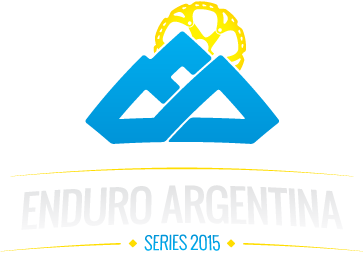
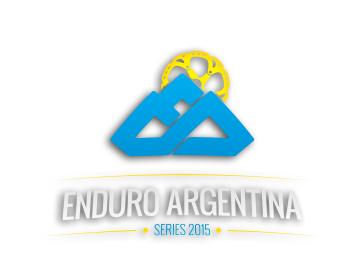
fixes enduro brand

Changed region(s): [[0.0, 0.0, 1.0, 0.9921], [0.9394, 0.689, 0.9697, 0.7165], [0.0303, 0.689, 0.0606, 0.7165]]

diff --git a/index.html b/index.html
@@ -169,7 +169,7 @@
               </ul>
             </div>
           </div>
-          <div class="enduro-brand layer deep-1int" data-stellar-ratio="0.75">
+          <div class="enduro-brand layer deep-1int" data-stellar-ratio="0.65">
             <img src="img/enduro_argentina.png" alt="brand"/>
           </div>
           <div class="featured stripped clearfix layer deep-2" data-stellar-ratio="0.6">
